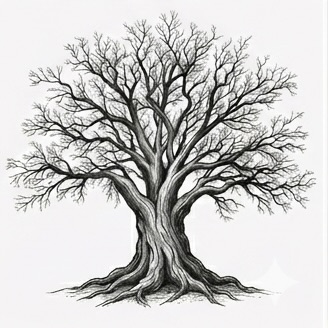
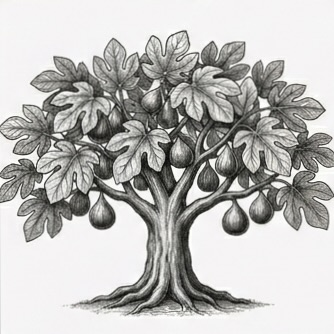
fixed requirements.txt and picture labeling

diff --git a/backend/app/main.py b/backend/app/main.py
@@ -1,10 +1,7 @@
 from fastapi import FastAPI
 from fastapi.middleware.cors import CORSMiddleware
-from fastapi.staticfiles import StaticFiles
-import os
 from app.models import moment, user as user_models
 from app.routers import photos, auth, user, quote, album
-from app.database import Base, engine
 
 
 app = FastAPI(
